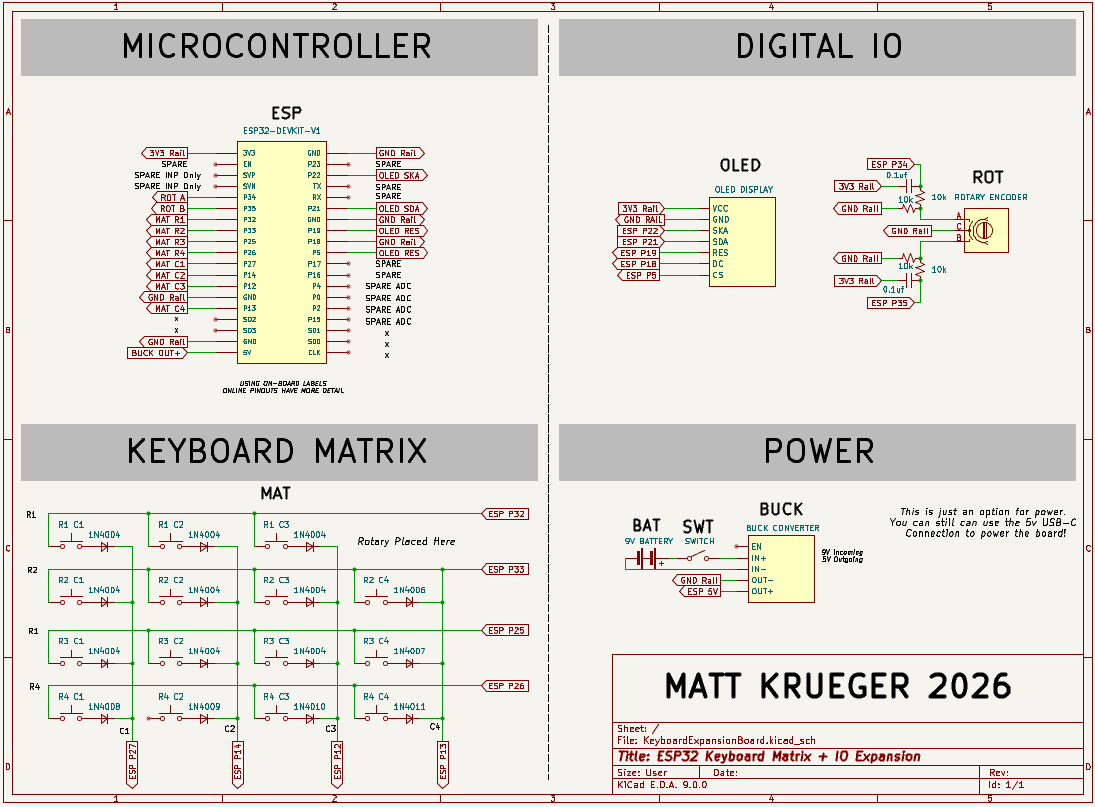
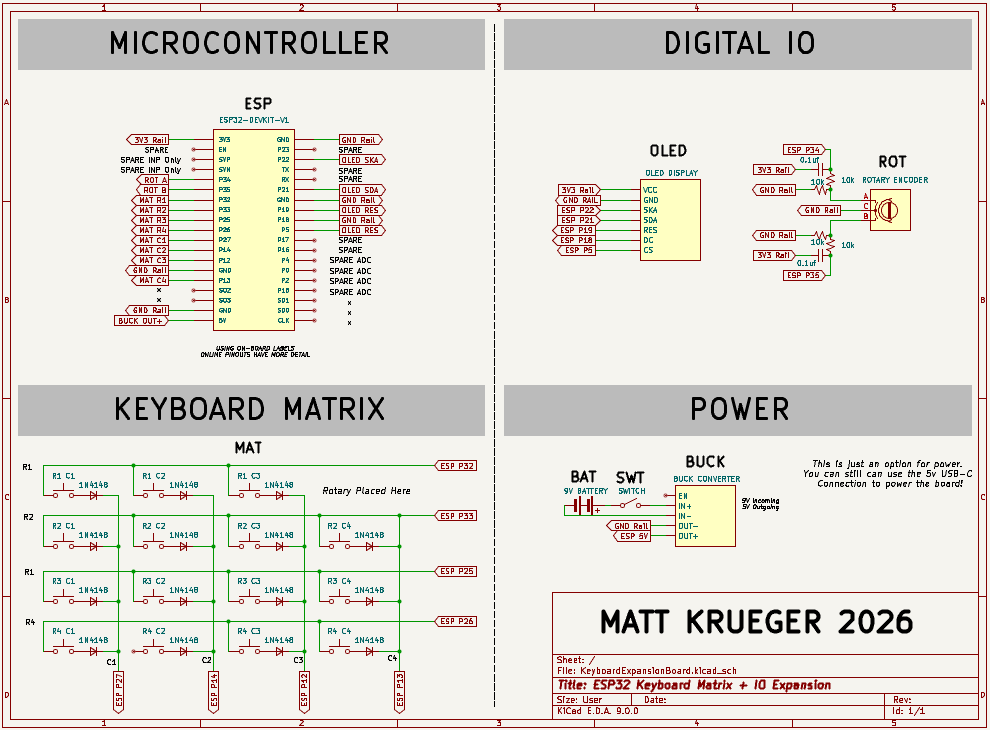
readme

diff --git a/README.md b/README.md
@@ -35,5 +35,7 @@ Image not added yet
 | 1 | Rotary Dial (from Arduino kit) | N/A | $0.00 | $0.00 | $0.00 |
 | 15 | Kailh Choc Keyswitches | [Amazon](https://www.amazon.com/Choc-Profile-White-Switches-Pre-lubed/dp/B0D49HD77G) | $13.00 / 20 | $0.65 | $9.75 |
 | 1 | ESP32s 38-Pin Dev Board | [Amazon](https://www.amazon.com/hiBCTR-Development-Learning-Microcontroller-Programming/dp/B0DSZBH9N9) | $30.00 / 6 | $5.00 | $5.00 |
-| - | 3D Filament (Matte Black) | N/A | N/A | N/A | N/A |
+| - | 3D Filament (Matte Black) | N/A | N/A | N/A | $10.00 |
 | | | | | **Total** | **$30.32** |
+
+**This is not counting the assortment of resistors, diodes, and battery which can be purchased for a negligible price**
